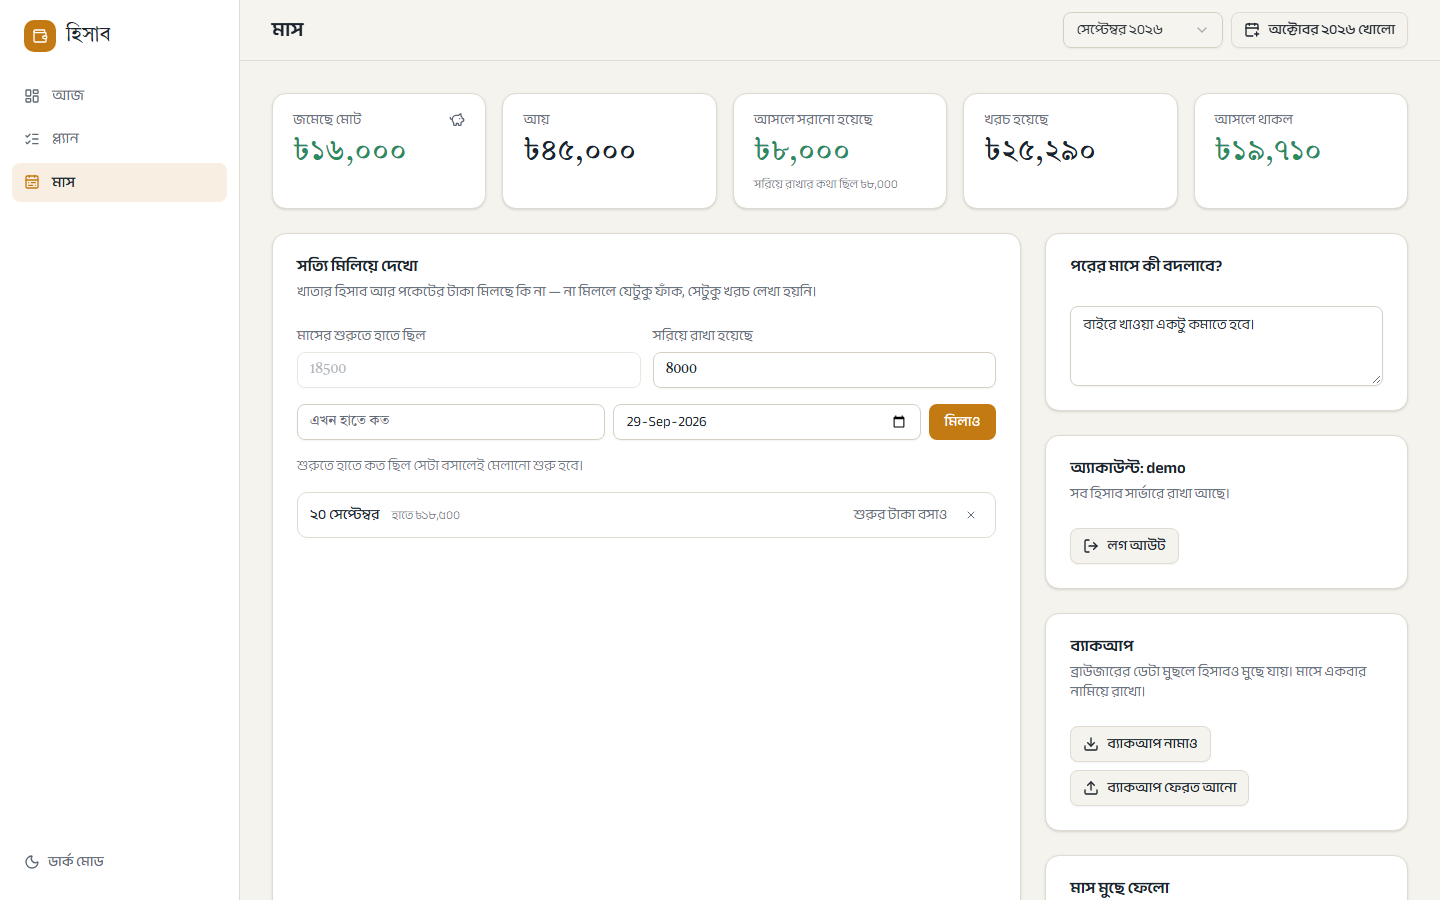
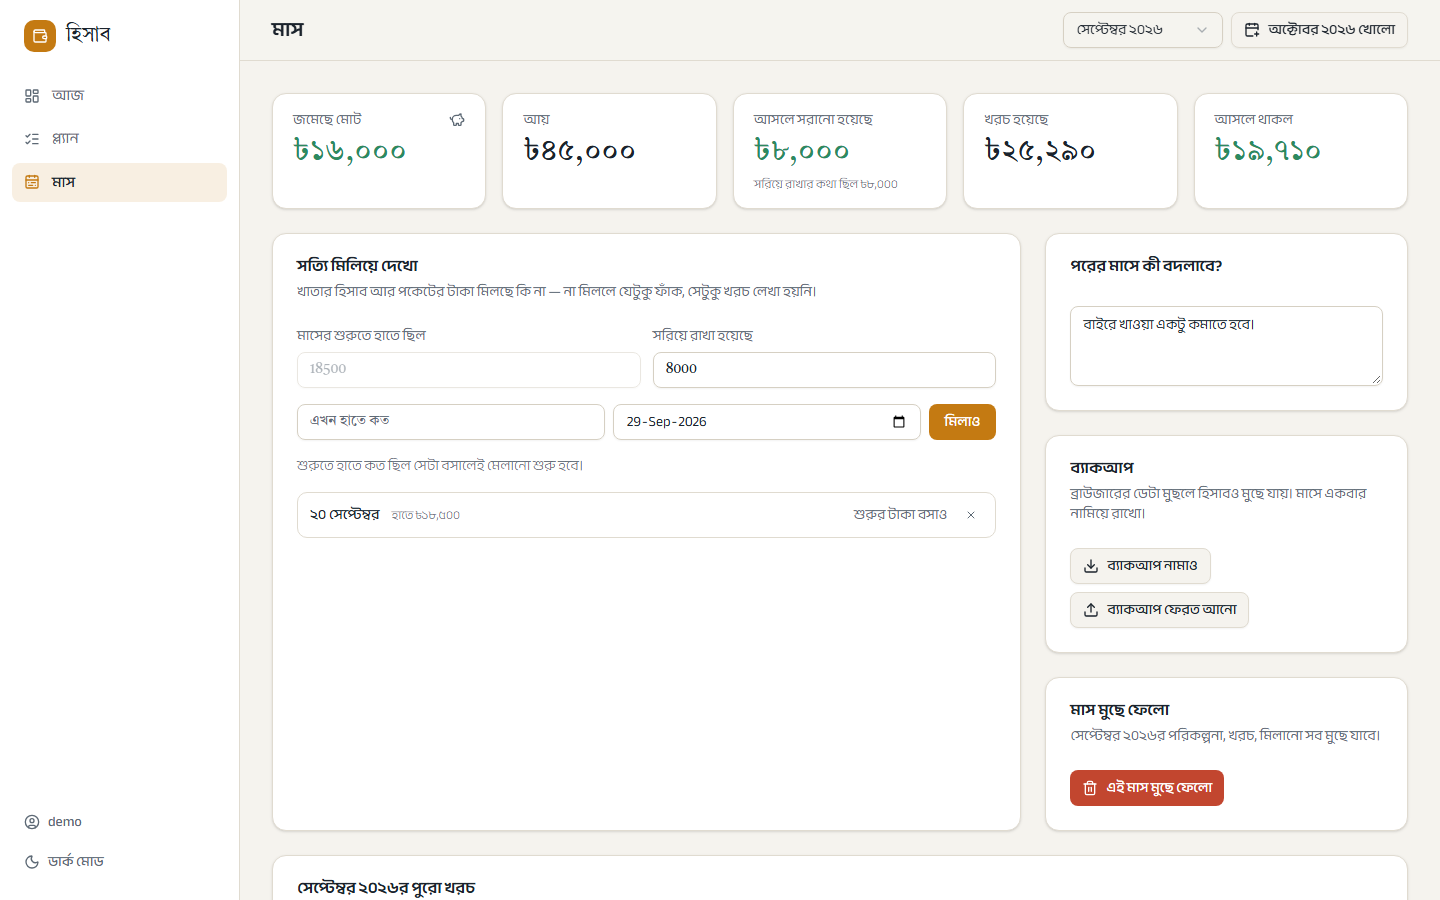
Update screenshots for the account popup

diff --git a/README.md b/README.md
@@ -12,6 +12,8 @@ The app runs in the browser and saves data in `localStorage`. An optional accoun
 
 ![Month page](docs/screenshots/month.png)
 
+![Account popup](docs/screenshots/account.png)
+
 ## Features
 
 - **Today dashboard:** shows money left, today's and this week's spending against their allowance, and how much is free versus tied up in fixed costs. A daily spending chart marks days you haven't logged.
